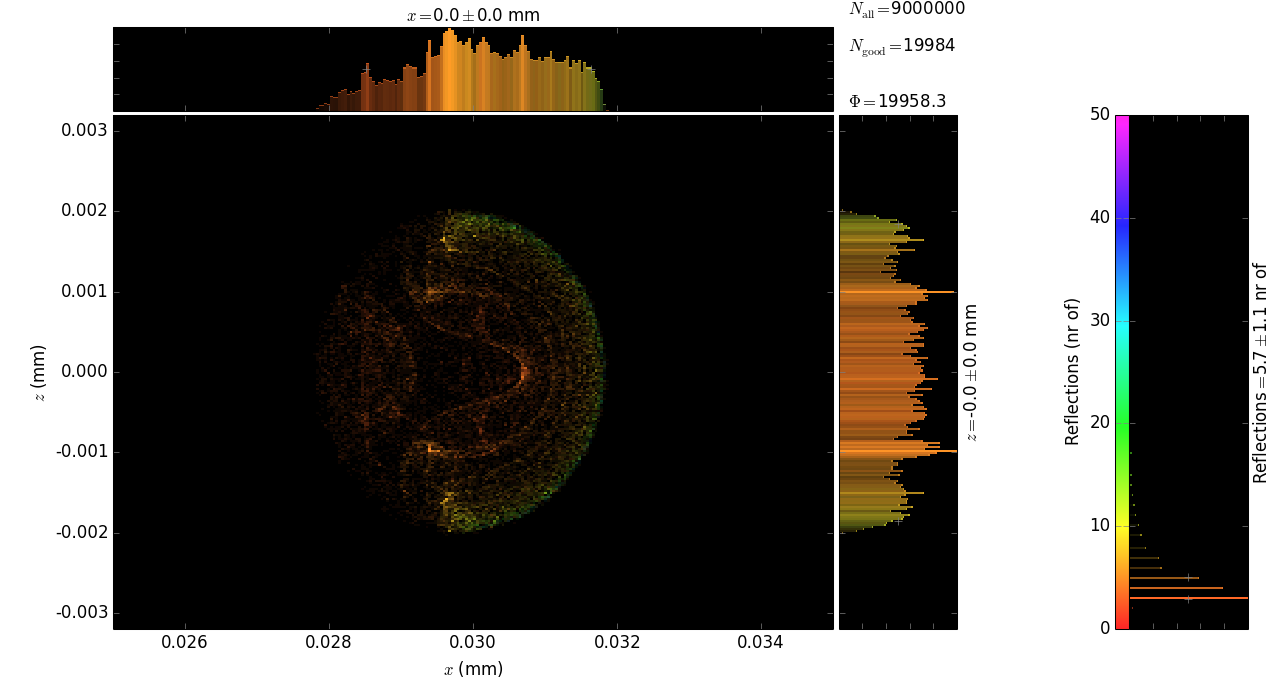
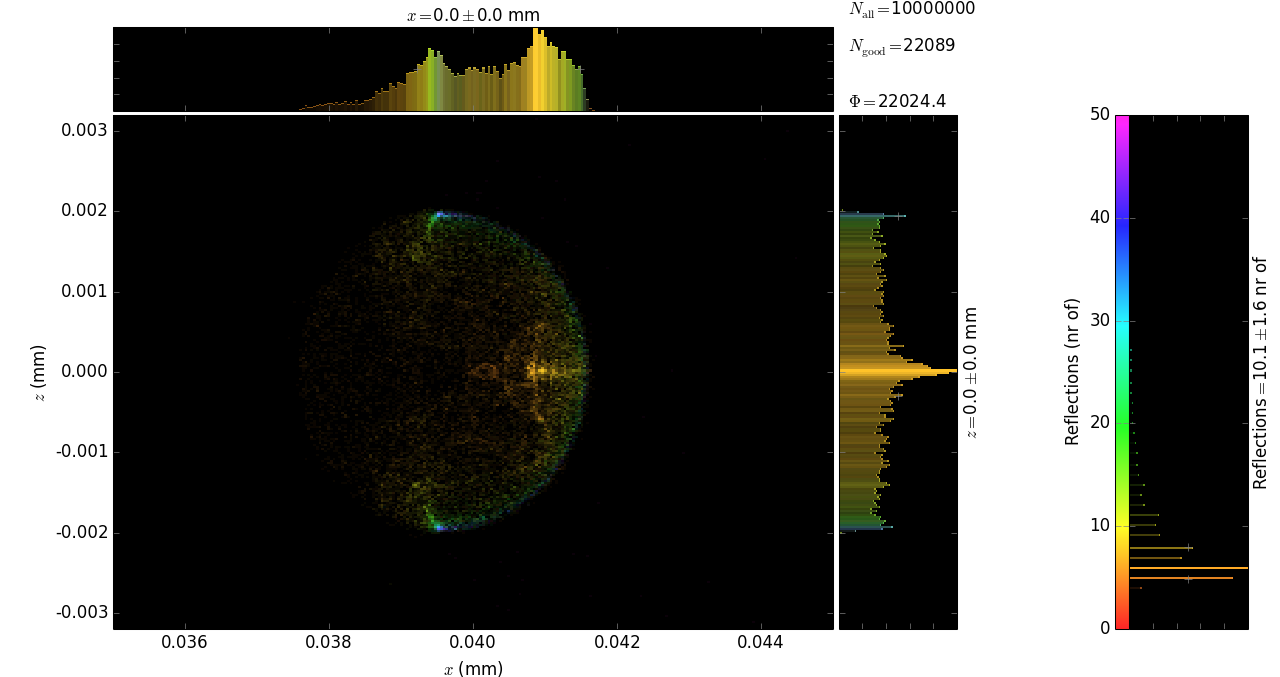
Testing for different parameters

diff --git a/simplfiedMonoCapillary.py b/simplfiedMonoCapillary.py
@@ -29,19 +29,19 @@ import scipy.io
     
 # ray traycing settings    
 mGlass = rm.Material(('Si', 'O'), quantities=(1, 2), rho=2.2)
-repeats = 6*1500    # number of ray traycing iterations
+repeats = 1e4    # number of ray traycing iterations
 E0 = 9000.          # energy in electronoVolts
 nRefl = 50          # number of reflections
 
 # capillary shape parameters
-rSample = 180.0 # starting position of the lens
+rSample = 100.0 # starting position of the lens
 f = rSample + 400 # y length in mm from foucs to the end of the lens
 r0 = 0.002*1
 rOut = 0.002*1
 wall = 0.0005
 
 # parameters for local_x0 function for actual shape definition
-y_in    = 0.03             # entrance height
+y_in    = 0.04             # entrance height
 rS      = float(rSample)    # light source - capillary distance 
 # Cosh parameter for tangential ray entrance
 a_      = -200.0/np.arcsinh(-y_in/rS)
